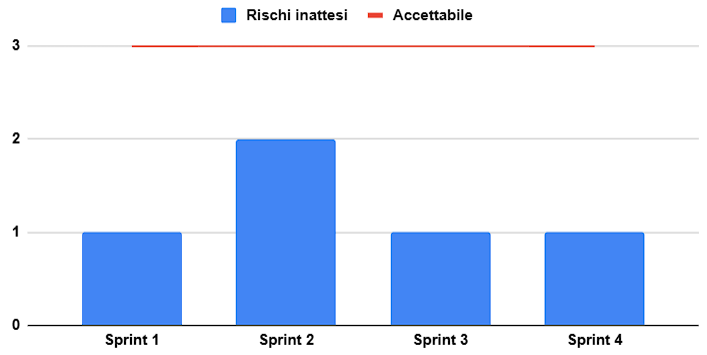
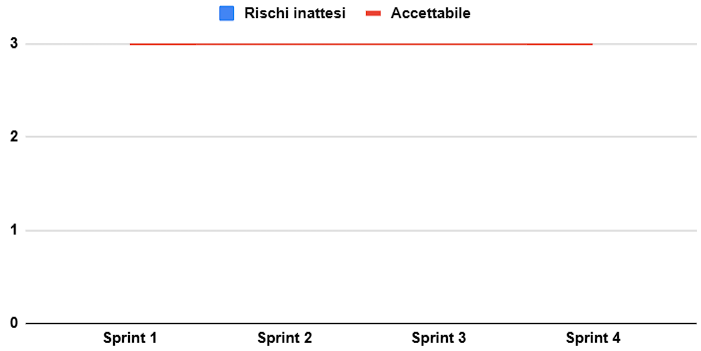
Sistemazione della metrica dei rischi inattesi, e altre sistemazioni

diff --git a/src/RTB/Documentazione esterna/Piano di Progetto/contenuti/preventivo_e_consuntivo.tex b/src/RTB/Documentazione esterna/Piano di Progetto/contenuti/preventivo_e_consuntivo.tex
@@ -73,7 +73,7 @@ Nel primo periodo si è registrato un consumo orario superiore a quello preventi
 Il prospetto economico relativo al primo periodo evidenzia i costi sostenuti per ciascun membro del team, suddivisi per ruolo, e il saldo complessivo a fine periodo.\\
 L'analisi dei costi si è concentrata sulle ore di lavoro effettivamente registrate, che hanno comportato un lieve incremento rispetto al preventivo iniziale, dovuto principalmente a un maggiore impegno nelle attività di analisi e amministrazione.\\
 In dettaglio, il costo orario per ogni membro del team è stato calcolato in base al ruolo interpretato, con i costi totali che sono stati ottenuti considerando le ore di lavoro svolte.\\
-Il totale delle spese sostenute per il primo periodo ammonta a \euro1185, con un saldo finale che riflette l'andamento positivo del progetto, nonostante gli aumenti orari in alcune aree.\\
+Il totale delle spese sostenute per il primo periodo ammonta a 1185 \euro, con un saldo finale che riflette l'andamento positivo del progetto, nonostante gli aumenti orari in alcune aree.\\
 Questo prospetto offre una visione chiara dell'impatto economico del periodo e consente di monitorare il progresso rispetto al budget complessivo del progetto.
 \begin{table}[!h]
     \centering
@@ -81,10 +81,10 @@ Questo prospetto offre una visione chiara dell'impatto economico del periodo e c
     \begin{tabularx}{\textwidth}{|c|X|X|X|X|X|X|c|}\hline
     \rowcolor[HTML]{FFD700} 
     \textbf{Costo} & \textbf{Re} & \textbf{Am} & \textbf{An} & \textbf{Pg} & \textbf{Pr} & \textbf{Ve} & \textbf{Totale} \\ \hline
-    Costo orario & 30€ & 20€ & 25€ & 25€ & 15€ & 15€ & /  \\ \hline
-    Costo totale & 240€ & 340€ & 425€ & 0€ & 0€ & 180€ & 1185€ \\ \hline
+    Costo orario & 30 \euro & 20 \euro & 25 \euro & 25 \euro & 15 \euro & 15 \euro & /  \\ \hline
+    Costo totale & 240 \euro & 340 \euro & 425 \euro & 0 \euro & 0 \euro & 180 \euro & 1185 \euro \\ \hline
     \rowcolor[HTML]{FFD700} 
-    \textbf{Saldo a fine periodo}  & 1740€ & 740€ & 1675€ & 3300€ & 1620€ & 1260€ & 10335€ \\ \hline
+    \textbf{Saldo a fine periodo}  & 1740 \euro & 740 \euro & 1675 \euro & 3300 \euro & 1620 \euro & 1260 \euro & 10335 \euro \\ \hline
     \end{tabularx}
     \caption{Costi sostenuti durante il primo periodo e saldo rimanente}
 \end{table}
@@ -109,7 +109,7 @@ Gli obiettivi fissati per il secondo periodo sono:
         \item Trascrivere i \emph{requisiti}, trasformando i \emph{casi d’uso} in specifiche tecniche e funzionali.
         \item Per quanto riguarda le tecnologie:
         \begin{itemize}
-            \item Validare le tecnologie scelte e integrarle progressivamente nel \emph{PoC}.
+            \item Verificare le tecnologie scelte e integrarle progressivamente nel \emph{PoC}.
             \item Realizzare un \emph{PoC} che risponda a domande riguardanti dati presenti su \emph{GitHub}, \emph{Confluence} e \emph{Jira}.
             \item Organizzare il \emph{PoC} in una struttura modulare e orientata alle classi.
             \item Implementare header che forniscano istruzioni al browser, incrementandoli in base alle esigenze.
@@ -139,7 +139,7 @@ Gli obiettivi fissati per il secondo periodo sono:
 \end{table}
 
 \subsubsubsection{Consuntivo secondo periodo: 06/12/2024 - 19/12/2024}
-Tutti gli obiettivi predisposti per il secondo periodo, che coincide con la seconda \emph{sprint}, sono stati soddisfatti con successo. La trascrizione dei \emph{requisiti}, trasformando i \emph{casi d’uso} in specifiche tecniche e funzionali, è stata completata positivamente.\\
+Tutti gli obiettivi predisposti per il secondo periodo, che coincide con la seconda \emph{sprint}, sono stati soddisfatti con successo. Con un po' di fatica, è stata terminata la modellazione dei \emph{casi d'uso}, mentre la trascrizione dei \emph{requisiti}, trasformando i \emph{casi d’uso} in specifiche tecniche e funzionali, è stata completata positivamente.\\
 Lo studio e la validazione delle tecnologie necessarie per il \emph{PoC} sono stati conclusi, e la loro integrazione iniziale è stata avviata con risultati soddisfacenti. Infine, è stato sviluppato il \emph{PoC} con una struttura modulare e organizzata in classi, rispondendo a domande riguardanti dati presenti su \emph{GitHub}, \emph{Confluence} e \emph{Jira}.\\
 La documentazione di riferimento chiave è stata completata e organizzata in \emph{Confluence}, \emph{Jira} e \emph{GitHub}, garantendo maggiore chiarezza per il team.\\
 La continuazione del \emph{Piano di Qualifica} è stata portata avanti regolarmente, integrando i progressi fatti durante il periodo. Anche per questa seconda fase, il preventivo, il consuntivo, il prospetto orario, il prospetto economico e i rischi occorsi sono stati redatti nel \textit{Piano di Progetto}, chiudendo con successo il periodo di lavoro.
@@ -147,7 +147,7 @@ La continuazione del \emph{Piano di Qualifica} è stata portata avanti regolarme
 
 \paragraph{Prospetto orario: }
 Nel secondo periodo si è registrato un consumo orario superiore a quello preventivato, con un eccesso di 10 ore di lavoro complessive per il gruppo. Questo incremento è stato determinato principalmente dalle ore assegnate ad Analista e Progettista, mentre si è osservata una riduzione delle ore destinate ad Amministratore.
-L'oneroso incremento del numero di ore impiegate dall'analista è dovuto all'elevato impegno speso dal gruppo durante la sprint nel documento di \emph{Analisi dei Requisiti}, che ha richiesto un maggiore sforzo rispetto a quanto preventivato.\\
+L'oneroso incremento del numero di ore impiegate dall'analista è dovuto all'elevato impegno speso dal gruppo durante la sprint nel documento di \emph{Analisi dei Requisiti}, che ha richiesto un maggiore sforzo rispetto a quanto preventivato, soprattutto a causa di difficoltà nella modellazione sintattica e semantica dei \emph{casi d'uso}.\\
 \begin{table}[h!]
     \centering
     \renewcommand{\arraystretch}{1.5}
@@ -168,9 +168,10 @@ L'oneroso incremento del numero di ore impiegate dall'analista è dovuto all'ele
 
 \paragraph{Prospetto economico secondo periodo: 06/12/2024 - 19/12/2024: }
 Il prospetto economico relativo al secondo periodo evidenzia i costi sostenuti per ciascun membro del team, suddivisi per ruolo, e il saldo complessivo a fine periodo.\\
-L'analisi dei costi si è concentrata sulle ore di lavoro effettivamente registrate, che hanno comportato un lieve incremento rispetto al preventivo iniziale, dovuto principalmente a un maggiore impegno nelle attività di analisi e progettazione. \\
+L'analisi dei costi si è concentrata sulle ore di lavoro effettivamente registrate, che hanno comportato un incremento rispetto al preventivo iniziale, dovuto principalmente ad un maggiore 
+impegno nelle attività di analisi e progettazione, in particolare nell'attività di analisi, poichè abbiamo incontrato difficoltà nella modellazione dei \emph{casi d'uso}. \\
 In dettaglio, il costo orario per ogni membro del team è stato calcolato in base al ruolo interpretato, con i costi totali che sono stati ottenuti considerando le ore di lavoro svolte. \\
-Il totale delle spese sostenute per il secondo periodo ammonta a \euro1115, con un saldo finale che riflette l'andamento positivo del progetto, nonostante gli aumenti orari in alcune aree.\\
+Il totale delle spese sostenute per il secondo periodo ammonta a 1115 \euro, con un saldo finale che riflette l'andamento positivo del progetto, nonostante gli aumenti orari in alcune aree.\\
 Questo prospetto offre una visione chiara dell'impatto economico del periodo e consente di monitorare il progresso rispetto al budget complessivo del progetto.
 \begin{table}[!h]
     \centering
@@ -178,10 +179,10 @@ Questo prospetto offre una visione chiara dell'impatto economico del periodo e c
     \begin{tabularx}{\textwidth}{|c|X|X|X|X|X|X|c|}\hline
     \rowcolor[HTML]{FFD700} 
     \textbf{Costo} & \textbf{Re} & \textbf{Am} & \textbf{An} & \textbf{Pg} & \textbf{Pr} & \textbf{Ve} & \textbf{Totale} \\ \hline
-    Costo orario & 30€ & 20€ & 25€ & 25€ & 15€ & 15€ & /  \\ \hline
-    Costo totale & 90€ & 80€ & 625€ & 125€ & 105€ & 90€ & 1115€ \\ \hline
+    Costo orario & 30 \euro & 20 \euro & 25 \euro & 25 \euro & 15 \euro & 15 \euro & /  \\ \hline
+    Costo totale & 90 \euro & 80 \euro & 625 \euro & 125 \euro & 105 \euro & 90 \euro & 1115 \euro \\ \hline
     \rowcolor[HTML]{FFD700} 
-    \textbf{Saldo a fine periodo}  & 1650€ & 660€  & 1050€ & 3175€ & 1515€ & 1170€ & 9220€ \\ \hline
+    \textbf{Saldo a fine periodo}  & 1650 \euro & 660 \euro  & 1050 \euro & 3175 \euro & 1515 \euro & 1170 \euro & 9220 \euro \\ \hline
     \end{tabularx}
     \caption{Costi sostenuti durante il secondo periodo e saldo rimanente}
 \end{table}
@@ -264,7 +265,7 @@ Questo incremento è stato dovuto principalmente all’aumento delle ore assegna
 Il prospetto economico relativo al terzo periodo evidenzia i costi sostenuti per ciascun membro del team, suddivisi per ruolo, e il saldo complessivo a fine periodo.\\
 L'analisi dei costi si è concentrata sulle ore di lavoro effettivamente registrate, che hanno comportato un lieve incremento rispetto al preventivo iniziale, dovuto principalmente a un maggiore impegno nelle attività di programmazione e verifica. \\
 In dettaglio, il costo orario per ogni membro del team è stato calcolato in base al ruolo interpretato, con i costi totali che sono stati ottenuti considerando le ore di lavoro svolte. \\
-Il totale delle spese sostenute per il terzo periodo ammonta a \euro995, con un saldo finale che riflette l'andamento positivo del progetto, nonostante gli aumenti orari in alcune aree.\\
+Il totale delle spese sostenute per il terzo periodo ammonta a 995 \euro, con un saldo finale che riflette l'andamento positivo del progetto, nonostante gli aumenti orari in alcune aree.\\
 Questo prospetto offre una visione chiara dell'impatto economico del periodo e consente di monitorare il progresso rispetto al budget complessivo del progetto.
 
 \begin{table}[!h]
@@ -273,10 +274,10 @@ Questo prospetto offre una visione chiara dell'impatto economico del periodo e c
     \begin{tabularx}{\textwidth}{|c|X|X|X|X|X|X|c|}\hline
     \rowcolor[HTML]{FFD700} 
     \textbf{Costo} & \textbf{Re} & \textbf{Am} & \textbf{An} & \textbf{Pg} & \textbf{Pr} & \textbf{Ve} & \textbf{Totale} \\ \hline
-    Costo orario & 30€ & 20€ & 25€ & 25€ & 15€ & 15€ & /  \\ \hline
-    Costo totale & 240€ & 80€ & 375€ & 0€ & 165€ & 135€ & 995€ \\ \hline
+    Costo orario & 30 \euro & 20 \euro & 25 \euro & 25 \euro & 15 \euro & 15 \euro & /  \\ \hline
+    Costo totale & 240 \euro & 80 \euro & 375 \euro & 0 \euro & 165 \euro & 135 \euro & 995 \euro \\ \hline
     \rowcolor[HTML]{FFD700} 
-    \textbf{Saldo a fine periodo}  & 1410€ & 740€  & 675€ & 3175€ & 1035€ & 1035€ & 8385€ \\ \hline
+    \textbf{Saldo a fine periodo}  & 1410 \euro & 740 \euro  & 675 \euro & 3175 \euro & 1350 \euro & 1035 \euro & 8385 \euro \\ \hline
     \end{tabularx}
     \caption{Costi sostenuti durante il terzo periodo e saldo rimanente}
 \end{table}
@@ -351,7 +352,7 @@ Ciò dimostra il miglioramento conseguito del team nella gestione del tempo con 
 Il prospetto economico relativo al quarto periodo evidenzia i costi sostenuti per ciascun membro del team, suddivisi per ruolo, e il saldo complessivo a fine periodo.\\  
 L'analisi dei costi si è basata sulle ore di lavoro effettivamente registrate, le quali risultano leggermente inferiori rispetto al preventivo iniziale.\\  
 In dettaglio, il costo orario per ogni membro del team è stato calcolato in base al ruolo interpretato, con i costi totali che sono stati ottenuti considerando le ore di lavoro svolte. \\
-Il totale delle spese sostenute per il terzo periodo ammonta a \euro1055, con un saldo finale che riflette l'andamento positivo del progetto. \\
+Il totale delle spese sostenute per il terzo periodo ammonta a 1055 \euro, con un saldo finale che riflette l'andamento positivo del progetto. \\
 Questo prospetto offre una visione chiara dell'impatto economico del periodo e consente di monitorare il progresso rispetto al budget complessivo del progetto.
 
 \begin{table}[!h]
@@ -360,10 +361,10 @@ Questo prospetto offre una visione chiara dell'impatto economico del periodo e c
     \begin{tabularx}{\textwidth}{|c|X|X|X|X|X|X|c|}\hline
     \rowcolor[HTML]{FFD700} 
     \textbf{Costo} & \textbf{Re} & \textbf{Am} & \textbf{An} & \textbf{Pg} & \textbf{Pr} & \textbf{Ve} & \textbf{Totale} \\ \hline
-    Costo orario & 30€ & 20€ & 25€ & 25€ & 15€ & 15€ & /  \\ \hline
-    Costo totale & 300€ & 200€ & 150€ & 0€ & 180€ & 225€ & 1055€ \\ \hline
+    Costo orario & 30 \euro & 20 \euro & 25 \euro & 25 \euro & 15 \euro & 15 \euro & /  \\ \hline
+    Costo totale & 300 \euro & 200 \euro & 150 \euro & 0 \euro & 180 \euro & 225 \euro & 1055 \euro \\ \hline
     \rowcolor[HTML]{FFD700} 
-    \textbf{Saldo a fine periodo}  & 1110€ & 540€  & 525€ & 3175€ & 1170€ & 810€ & 7330€ \\ \hline
+    \textbf{Saldo a fine periodo}  & 1110 \euro & 540 \euro  & 525 \euro & 3175 \euro & 1170 \euro & 810 \euro & 7330 \euro \\ \hline
     \end{tabularx}
     \caption{Costi sostenuti durante il quarto periodo e saldo rimanente}
 \end{table}

diff --git a/src/RTB/Documentazione esterna/Piano di Qualifica/contenuti/cruscotto_valutazione_qualita.tex b/src/RTB/Documentazione esterna/Piano di Qualifica/contenuti/cruscotto_valutazione_qualita.tex
@@ -150,12 +150,18 @@ con successo tutte le attività preventivate.
 \section*{Analisi}
 
 Durante la RTB, il team ha riscontrato difficoltà nell'applicare alcune misure di mitigazione
-per i rischi individuati. In particolare, il team ha avuto difficoltà nel gestire i rischi
+per i rischi individuati.\\
+In particolare, il team ha avuto difficoltà nel gestire i rischi
 legati alla comunicazione interna nella seconda sprint, dove tutti i membri hanno 
-dovuto mettersi d'accordo sia sintatticamente sia semanticamente nella modellazione dei casi d'uso.
+dovuto mettersi d'accordo sia sintatticamente sia semanticamente nella modellazione dei casi d'uso.\\
 Poi, è stata riscontrata difficoltà a gestire i rischi legati alla non conformità rispetto 
-agli impegni dichiarati nella terza e quarta sprint, a causa rispettivamente della concomitanza
-delle vacanze natalizie e dello studio per la sessione d'esami.
+agli impegni dichiarati nella terza sprint, a causa della concomitanza
+delle vacanze natalizie e dello studio per la sessione d'esami.\\
+Infine, nella quarta sprint, il team ha avuto difficoltà a gestire i rischi legati alla
+complessità delle tecnologie: in particolare il team ha avuto difficoltà nell'aiuto reciproco nella programmazione, poichè
+la spartizione dei compiti iniziale ha previsto degli esploratori solitari per ciascuna tecnologia e una bassa condivisione
+delle conoscenze, rendendo poi difficile lavorare in gruppo e chiedere aiuto ai compagni al momento 
+dell'\emph{implementazione}\textsubscript{\textbf{\textit{G}}} del \emph{PoC}\textsubscript{\textbf{\textit{G}}}.
 
 \newpage
 
@@ -171,15 +177,10 @@ delle vacanze natalizie e dello studio per la sessione d'esami.
 
 \section*{Analisi}
 
-Durante la RTB, il team ha riscontrato la presenza di diversi rischi inattesi. In particolare, 
-il team ha incontrato rischi di confusione sulle responsabilità a causa di una spartizione di
-compiti non chiara, e soprattutto rischi legati alle tecnologie: il team è stato in dubbio sulla
-possibilità di utilizzare la tecnologia \emph{Docker}\textsubscript{\textbf{\textit{G}}} per la 
-realizzazione del progetto in quanto non prevista inizialmente dal \emph{proponente}\textsubscript{\textbf{\textit{G}}} 
-nella lista di tecnologie proposte, ma soprattutto ha avuto difficoltà nell'aiuto reciproco, poichè
-la spartizione dei compiti ha previsto degli esploratori solitari per ciascuna tecnologia, rendendo poi
-difficile lavorare in gruppo e chiedere aiuto ai compagni al momento dell'\emph{implementazione}\textsubscript{\textbf{\textit{G}}} del 
-\emph{PoC}\textsubscript{\textbf{\textit{G}}}.
+Come osservabile dai valori riportati dal grafico, l’ampia analisi dei rischi effettuata a
+inizio progetto è stata soddisfacente. In particolare, nessuna problematica primaria
+riconoscibile come rischio è stata riscontrata fino ad ora, senza che fosse già presente
+nella sezione dedicata del \emph{Piano di progetto}\textsubscript{\textbf{\textit{G}}}.
 
 \newpage
 
@@ -194,7 +195,7 @@ difficile lavorare in gruppo e chiedere aiuto ai compagni al momento dell'\emph{
 \end{figure}
 
 \section*{Analisi}
-Il progetto fino ad ora ha prodotto un Proof of Concept, dunque nessun prodotto finale con il quale soddisfare alcun requisito.
+Il progetto fino ad ora ha prodotto un \emph{Proof of Concept}\textsubscript{\textbf{\textit{G}}}, dunque nessun prodotto finale con il quale soddisfare alcun requisito.
 Per questo motivo è normale che nel cruscotto non risulti soddisfatto nessun requisito.
 
 \newpage

diff --git a/src/RTB/Lettera di Presentazione/contenuti/lettera.tex b/src/RTB/Lettera di Presentazione/contenuti/lettera.tex
@@ -34,7 +34,7 @@ Viene inoltre reso disponibile il codice sorgente del \emph{Proof of Concept}\te
 \begin{center}
     \bulhref{https://github.com/SWEg-Labs/BuddyBot}{https://github.com/SWEg-Labs/BuddyBot}
 \end{center}
-Con la presente lettera desideriamo inoltre aggiornarVi sugli impegni presi, confermando il costo finale per la realizzazione del progetto di \euro11.520, e allo stesso tempo ribadendo l’impegno preso in fase di candidatura di completare il progetto entro il 22/04/2025.\\
+Con la presente lettera desideriamo inoltre aggiornarVi sugli impegni presi, confermando il costo finale per la realizzazione del progetto di 11.520 \euro, e allo stesso tempo ribadendo l’impegno preso in fase di candidatura di completare il progetto entro il 22/04/2025.\\
 \vspace{1.5cm}
 
 Cordiali saluti,\\
